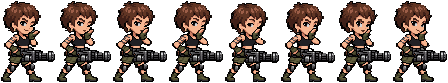
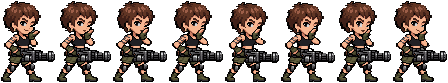
v0.15.3: blokada twarzy w pozie zwycięstwa Łysej + tools/facelock.py
Claude-Session: https://claude.ai/code/session_01XgXXrYarijhyY2khEfGGY8

diff --git a/index.html b/index.html
@@ -11,7 +11,7 @@
 <body>
 <div id="scr">
   <canvas id="c" width="640" height="360"></canvas>
-  <div class="layer" id="title"><div id="tshade"></div><div id="ver">v0.15.2</div><img id="logo" alt="Megarozwałka w Wujasowie"><div id="press">NACIŚNIJ START</div><div id="menu"></div><div id="panel"></div></div>
+  <div class="layer" id="title"><div id="tshade"></div><div id="ver">v0.15.3</div><img id="logo" alt="Megarozwałka w Wujasowie"><div id="press">NACIŚNIJ START</div><div id="menu"></div><div id="panel"></div></div>
   <div class="layer" id="select"><h1>SELEKT YOUR WUJAS OR CIOTKA</h1><div id="cards"></div><div class="shint">← → wybór · ENTER / Z / X zatwierdź · kliknij kartę</div></div>
   <div id="crt"></div>
 </div>

diff --git a/tools/facelock.py b/tools/facelock.py
@@ -1,0 +1,48 @@
+#!/usr/bin/env python3
+"""Blokada twarzy w arkuszu animacji (generator animacji „pływa” z oczami i fryzurą między klatkami).
+
+    python3 tools/facelock.py arkusz.png --frames 8 [--ref 0] [--rows 26] [--x0 6 --x1 50] [-o wynik.png]
+
+Bierze głowę (wiersze 0..rows, kolumny x0..x1) z klatki referencyjnej, dopasowuje jej położenie
+do każdej klatki (przesunięcie ±3 px po sylwetce włosów) i wkleja na wierzch.
+Piksele dłoni/rękawiczki bieżącej klatki (zielonkawe + 2 px otoczki) zostają nietknięte,
+więc gest zasłaniający twarz (np. buziak) nadal jest widoczny.
+"""
+import argparse
+import numpy as np
+from PIL import Image
+from scipy import ndimage
+
+def glove(a):
+    r, g, b = a[..., 0], a[..., 1], a[..., 2]
+    return (g > r) & (g > b + 5) & (a[..., 3] > 0)
+
+def main():
+    ap = argparse.ArgumentParser()
+    ap.add_argument('sheet'); ap.add_argument('--frames', type=int, required=True)
+    ap.add_argument('--ref', type=int, default=0); ap.add_argument('--rows', type=int, default=26)
+    ap.add_argument('--x0', type=int, default=6); ap.add_argument('--x1', type=int, default=50)
+    ap.add_argument('-o', '--out')
+    a = ap.parse_args()
+    s = np.array(Image.open(a.sheet).convert('RGBA')).astype(int)
+    fw = s.shape[1] // a.frames
+    fr = [s[:, i * fw:(i + 1) * fw].copy() for i in range(a.frames)]
+    ref = fr[a.ref]; out = []
+    for i, f in enumerate(fr):
+        if i == a.ref: out.append(f); continue
+        best = None
+        for dy in range(-3, 4):
+            for dx in range(-3, 4):
+                sh = np.roll(np.roll(ref, dy, 0), dx, 1)
+                d = np.abs(sh[:16, :, :3] - f[:16, :, :3]).sum() + 300 * np.abs((sh[:16, :, 3] > 0).astype(int) - (f[:16, :, 3] > 0)).sum()
+                if best is None or d < best[0]: best = (d, dx, dy)
+        _, dx, dy = best
+        sh = np.roll(np.roll(ref, dy, 0), dx, 1)
+        hand = ndimage.binary_dilation(glove(f), iterations=2)
+        m = np.zeros(f.shape[:2], bool); m[:a.rows + dy, a.x0:a.x1] = True
+        m &= ~hand & ((sh[..., 3] > 0) | (f[..., 3] > 0))
+        g = f.copy(); g[m] = sh[m]; out.append(g)
+    Image.fromarray(np.concatenate(out, axis=1).astype(np.uint8)).save(a.out or a.sheet)
+
+if __name__ == '__main__':
+    main()

diff --git a/CHANGELOG.md b/CHANGELOG.md
@@ -8,6 +8,12 @@ Numer wersji widać w prawym dolnym rogu ekranu tytułowego (`tools/bump.py`).
 - Repozytorium: podział kodu na moduły (`src/`), grafiki jako osobne pliki (`assets/`),
   skrypt budujący jeden plik HTML (`tools/build.py`), deploy na GitHub Pages.
 
+## [0.15.3] — 2026-11-14
+### Poprawione
+- Poza zwycięstwa Łysej: blokada twarzy — oczy, mrugnięcie i fryzura są identyczne we wszystkich klatkach (wcześniej „pływały”); dłoń z buziakiem zostaje z animacji.
+### Dodane
+- `tools/facelock.py` — narzędzie do blokady twarzy w arkuszach animacji.
+
 ## [0.15.2] — 2026-11-14
 ### Zmienione
 - Poza zwycięstwa Łysej: odwraca się przodem do ekranu i puszcza buziaka z mrugnięciem (poprawione oczy);
@@ -123,7 +129,8 @@ Numer wersji widać w prawym dolnym rogu ekranu tytułowego (`tools/bump.py`).
 - HP 100 + 3 życia, kamizelka, mikroeksplozje pocisków, cienie kontaktowe, sterowanie dotykowe i pad.
 - Arena bossa z platformami, Agent B.R.S z animacjami (chód, strzał, gwizdek, śmierć) i mechanicznymi ramionami.
 
-[Unreleased]: ../../compare/v0.15.2...HEAD
+[Unreleased]: ../../compare/v0.15.3...HEAD
+[0.15.3]: ../../releases/tag/v0.15.3
 [0.15.2]: ../../releases/tag/v0.15.2
 [0.15.1]: ../../releases/tag/v0.15.1
 [0.15.0]: ../../releases/tag/v0.15.0

diff --git a/README.md b/README.md
@@ -4,7 +4,7 @@
 **Badziejek**, **Marewik** i **Łysa** — przebija się przez zaślimaczoną Piwnicę
 aż do **Agenta B.R.S** i jego mechanicznych ramion.
 
-![wersja](https://img.shields.io/badge/wersja-v0.15.2-ffd040) ![HTML5](https://img.shields.io/badge/HTML5-canvas-e8203a)
+![wersja](https://img.shields.io/badge/wersja-v0.15.3-ffd040) ![HTML5](https://img.shields.io/badge/HTML5-canvas-e8203a)
 
 ## Zagraj
 
@@ -44,6 +44,7 @@ assets/             grafiki (heroes/, enemies/, boss/, level/, props/, pickups/,
 tools/
   build.py          skleja wszystko w jeden plik dist/index.html (grafiki jako base64)
   bump.py           podbija numer wersji na ekranie tytułowym
+  facelock.py       blokada twarzy w arkuszach animacji (stałe oczy/fryzura między klatkami)
 .github/workflows/  automatyczny deploy na GitHub Pages
 ```
 
